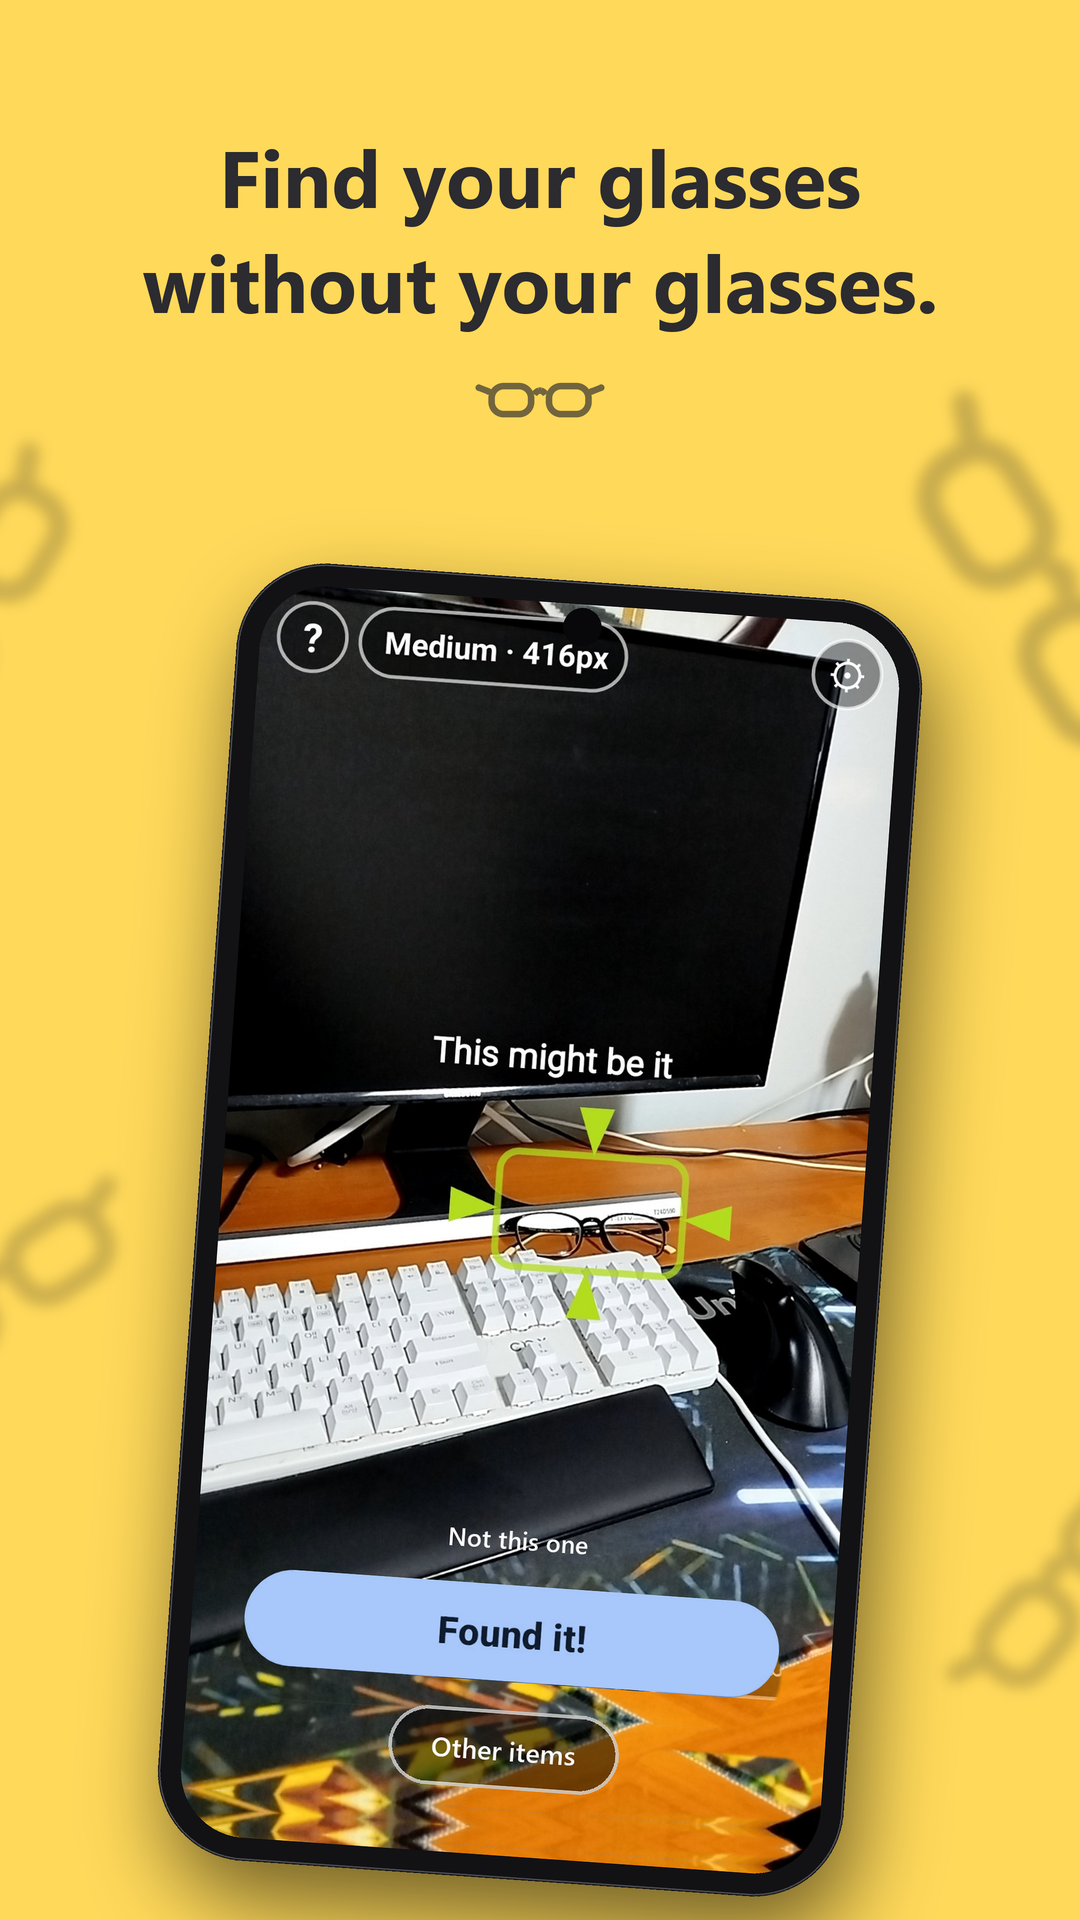
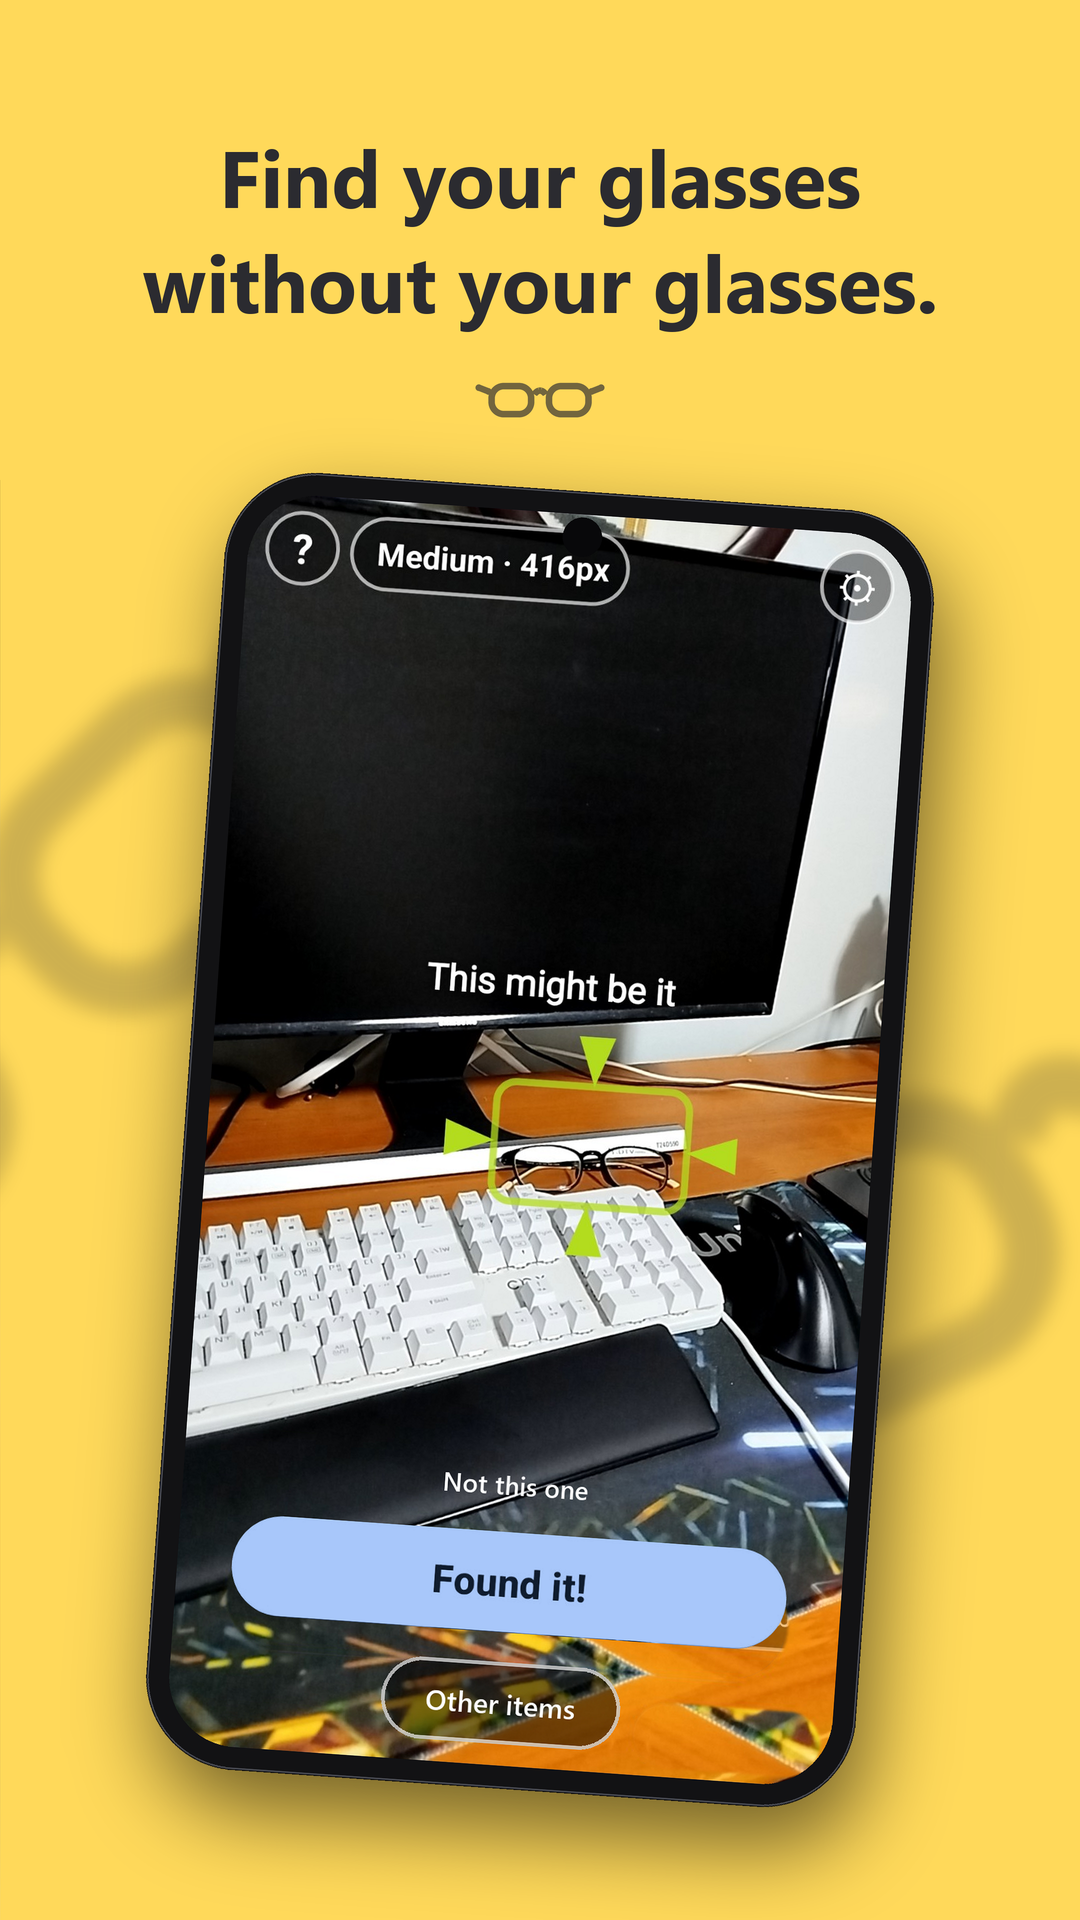
Store screenshots: photo fills the lower 3/4 of tile 1, huge soft glasses on the seams, found screen trimmed in its empty black area instead of stretching the search screen, phones raised

diff --git a/poc/scripts/render_store_yellow.py b/poc/scripts/render_store_yellow.py
@@ -1,9 +1,9 @@
 """스토어 스크린샷 (노랑 테마) — 1080x1920 세 장.
 
-1 흐릿한 방 (안경 벗은 사람 눈으로 본 모습. 폰 없이 배경 전체, 오른쪽으로 노랑에 스며든다)
+1 흐릿한 방 (안경 벗은 사람 눈으로 본 모습. 폰 없이, 위 1/4 노랑 아래 3/4 흐린 사진)
 2 찾는 화면   3 폭죽 화면
 아이콘과 같은 노랑 배경 + 먹색 글자. 제목 아래에 아이콘의 안경 하나.
-두 장의 경계에는 크고 흐릿한 안경을 몇 개 걸쳐 둔다 (폰에 가리지 않는 빈 틈에).
+두 장의 경계마다 아주 크고 흐릿한 안경을 하나씩 걸쳐 둔다 (폰 뒤로 일부 가려진다).
 
     uv run python scripts/render_store_yellow.py
 """
@@ -28,10 +28,10 @@ TILES = [
 ]
 N = len(TILES)
 PHONE_H = 1300
-PHONE_Y = 1230
+PHONE_Y = 1140
 TEXT_Y = (175, 280)
 ORNAMENT_Y = 400
-SEAM_GLASSES = 2          # 경계마다
+PHOTO_TOP = 480           # 1장 사진이 시작하는 높이 (위 1/4 은 노랑)
 
 random.seed(8)
 
@@ -68,28 +68,23 @@ def glasses_sprite(width: int, color) -> Image.Image:
 def blurry_room(w: int, h: int) -> Image.Image:
     """찾았어요 화면 속 사진(책상)을 화면 가득 키워 알아볼 수 없게 흐린다 — 안경 벗은 눈."""
     found = Image.open(REL / "screenshot-1-found.png").convert("RGB")
-    photo = found.crop((90, 700, 810, 1128))
-    s = max(w / photo.width, h / photo.height)
-    big = photo.resize((int(photo.width * s) + 2, int(photo.height * s) + 2), Image.LANCZOS)
-    x = (big.width - w) // 2
-    return big.crop((x, 0, x + w, h)).filter(ImageFilter.GaussianBlur(60 * SS))
+    photo = found.crop((90, 700, 810, 1128))            # 찾았어요 화면 속 책상 사진
+    # 목표 비율(w:h)에 맞는 세로 조각을 가운데(안경 쪽)에서 오린다
+    ch = photo.height
+    cw = int(ch * w / h)
+    cx = photo.width // 2
+    part = photo.crop((cx - cw // 2, 0, cx + cw // 2, ch))
+    big = part.resize((w, h), Image.LANCZOS)
+    return big.filter(ImageFilter.GaussianBlur(45 * SS))
 
 
 def main() -> None:
     PW, PH = W * N * SS, H * SS
     canvas = Image.new("RGBA", (PW, PH), YELLOW + (255,))
 
-    # 1장: 흐릿한 방. 오른쪽 끝 360px 에서 노랑으로 스며든다 (2장과 이어지게)
-    room = blurry_room(W * SS, PH).convert("RGBA")
-    room.alpha_composite(Image.new("RGBA", room.size, (0, 0, 0, 60)))       # 글자가 읽히게 살짝 어둡게
-    fade = Image.new("L", room.size, 255)
-    fd = ImageDraw.Draw(fade)
-    f0 = (W - 360) * SS
-    for x in range(f0, W * SS):
-        t = (x - f0) / (W * SS - f0)
-        fd.line([(x, 0), (x, PH)], fill=int(255 * (1 - t) ** 1.5))
-    room.putalpha(fade)
-    canvas.alpha_composite(room, (0, 0))
+    # 1장: 위 1/4 은 노랑(제목), 아래 3/4 을 흐린 사진으로 꽉 채운다
+    room = blurry_room(W * SS, PH - PHOTO_TOP * SS)
+    canvas.paste(room, (0, PHOTO_TOP * SS))
 
     # 폰은 따로 그려 두고, 폰 자리를 경계 안경이 피하게 한다
     phones = Image.new("RGBA", (PW, PH), (0, 0, 0, 0))
@@ -98,34 +93,15 @@ def main() -> None:
             place(phones, phone(screen(name), PHONE_H * SS), (i * W + W // 2) * SS, PHONE_Y * SS, ang)
     busy = phones.split()[3].point(lambda a: 255 if a > 20 else 0).filter(ImageFilter.MaxFilter(41))
 
-    # 경계에 걸친 크고 흐릿한 안경 — 폰 사이 빈 틈, 위아래로 나눠서
-    seam_layer = Image.new("RGBA", (PW, PH), (0, 0, 0, 0))
-    bd = ImageDraw.Draw(busy)
+    # 경계마다 아주 큰 흐릿한 안경 하나 — 두 장에 반씩 걸친다. 폰 뒤로 일부 가려진다.
     for seam in range(1, N):
-        sx = seam * W * SS
-        for band in range(SEAM_GLASSES):
-            y_lo = (560 + band * 700) * SS
-            y_hi = (560 + band * 700 + 600) * SS
-            for _ in range(400):
-                gw = int(random.uniform(300, 470) * SS)
-                ang = random.uniform(25, 60) * random.choice((1, -1))   # 세로로 세우면 쇠사슬처럼 보인다
-                spr = glasses_sprite(gw, INK + (70,)).rotate(ang, resample=Image.BICUBIC, expand=True)
-                spr = spr.filter(ImageFilter.GaussianBlur(7 * SS))
-                cx = sx + random.randint(-50, 50) * SS
-                cy = random.randint(y_lo, y_hi)
-                x, y = cx - spr.width // 2, cy - spr.height // 2
-                if y < 0 or y + spr.height > PH:
-                    continue
-                # 폰과 겹치는지 — 안경 모양 그대로 확인
-                m = spr.split()[3].point(lambda a: 255 if a > 10 else 0)
-                region = busy.crop((x, y, x + spr.width, y + spr.height))
-                hit = Image.composite(region, Image.new("L", region.size, 0), m).getbbox()
-                if hit:
-                    continue
-                seam_layer.alpha_composite(spr, (x, y))
-                bd.rectangle([x, y, x + spr.width, y + spr.height], fill=255)   # 서로 안 겹치게
-                break
-    canvas.alpha_composite(seam_layer)
+        gw = int(random.uniform(950, 1150) * SS)
+        ang = random.uniform(25, 45) * random.choice((1, -1))
+        spr = glasses_sprite(gw, INK + (60,)).rotate(ang, resample=Image.BICUBIC, expand=True)
+        spr = spr.filter(ImageFilter.GaussianBlur(10 * SS))
+        cx = seam * W * SS
+        cy = random.randint(900, 1250) * SS
+        canvas.alpha_composite(spr, (cx - spr.width // 2, cy - spr.height // 2))
 
     canvas.alpha_composite(phones)
 
@@ -135,10 +111,10 @@ def main() -> None:
     orn_white = glasses_sprite(130 * SS, (255, 255, 255, 220))
     for i, (name, (l1, l2), _) in enumerate(TILES):
         cx = (i * W + W // 2) * SS
-        col = (255, 255, 255) if name is None else INK
+        col = INK
         d.text((cx, TEXT_Y[0] * SS), l1, font=f, fill=col, anchor="mm")
         d.text((cx, TEXT_Y[1] * SS), l2, font=f, fill=col, anchor="mm")
-        orn = orn_white if name is None else orn_ink
+        orn = orn_ink
         canvas.alpha_composite(orn, (cx - orn.width // 2, ORNAMENT_Y * SS - orn.height // 2))
 
     full = canvas.convert("RGB").resize((W * N, H), Image.LANCZOS)

diff --git a/poc/scripts/render_store_marketing.py b/poc/scripts/render_store_marketing.py
@@ -33,23 +33,21 @@ TILES = [
 random.seed(11)
 
 
+SCREEN_H = 1696
+# 찾았어요 화면(900x1760)은 사진 위 검은 빈 부분(331~517 줄, 아무것도 없음)에서
+# 64줄을 잘라내 찾는 화면(900x1696)과 길이를 맞춘다. 늘이거나 채워 넣지 않는다.
+CUT_FROM = 400
+
+
 def screen(name: str) -> Image.Image:
-    """두 화면의 비율을 맞춘다 (900x1760). 짧은 쪽은 아래를 검게 채운다 (내비게이션 자리)."""
+    """두 화면의 길이를 900x1696 으로 맞춘다."""
     im = Image.open(REL / name).convert("RGB")
-    if im.height < 1760:
-        # 검게 채우면 폰 아래에 띠가 생긴다. 맨 아래 버튼 밑 바닥 줄(26px)만 거울로
-        # 번갈아 이어 붙인다. 버튼까지 비추면 거꾸로 된 버튼이 보인다.
-        extra = 1760 - im.height
-        band = im.crop((0, im.height - 26, 900, im.height))
-        flip = band.transpose(Image.FLIP_TOP_BOTTOM)
-        pad = Image.new("RGB", (900, 1760))
-        pad.paste(im, (0, 0))
-        y, k = im.height, 0
-        while y < 1760:
-            pad.paste(flip if k % 2 == 0 else band, (0, y))
-            y += band.height
-            k += 1
-        im = pad
+    if im.height > SCREEN_H:
+        extra = im.height - SCREEN_H
+        out = Image.new("RGB", (im.width, SCREEN_H))
+        out.paste(im.crop((0, 0, im.width, CUT_FROM)), (0, 0))
+        out.paste(im.crop((0, CUT_FROM + extra, im.width, im.height)), (0, CUT_FROM))
+        im = out
     return im
 
 
